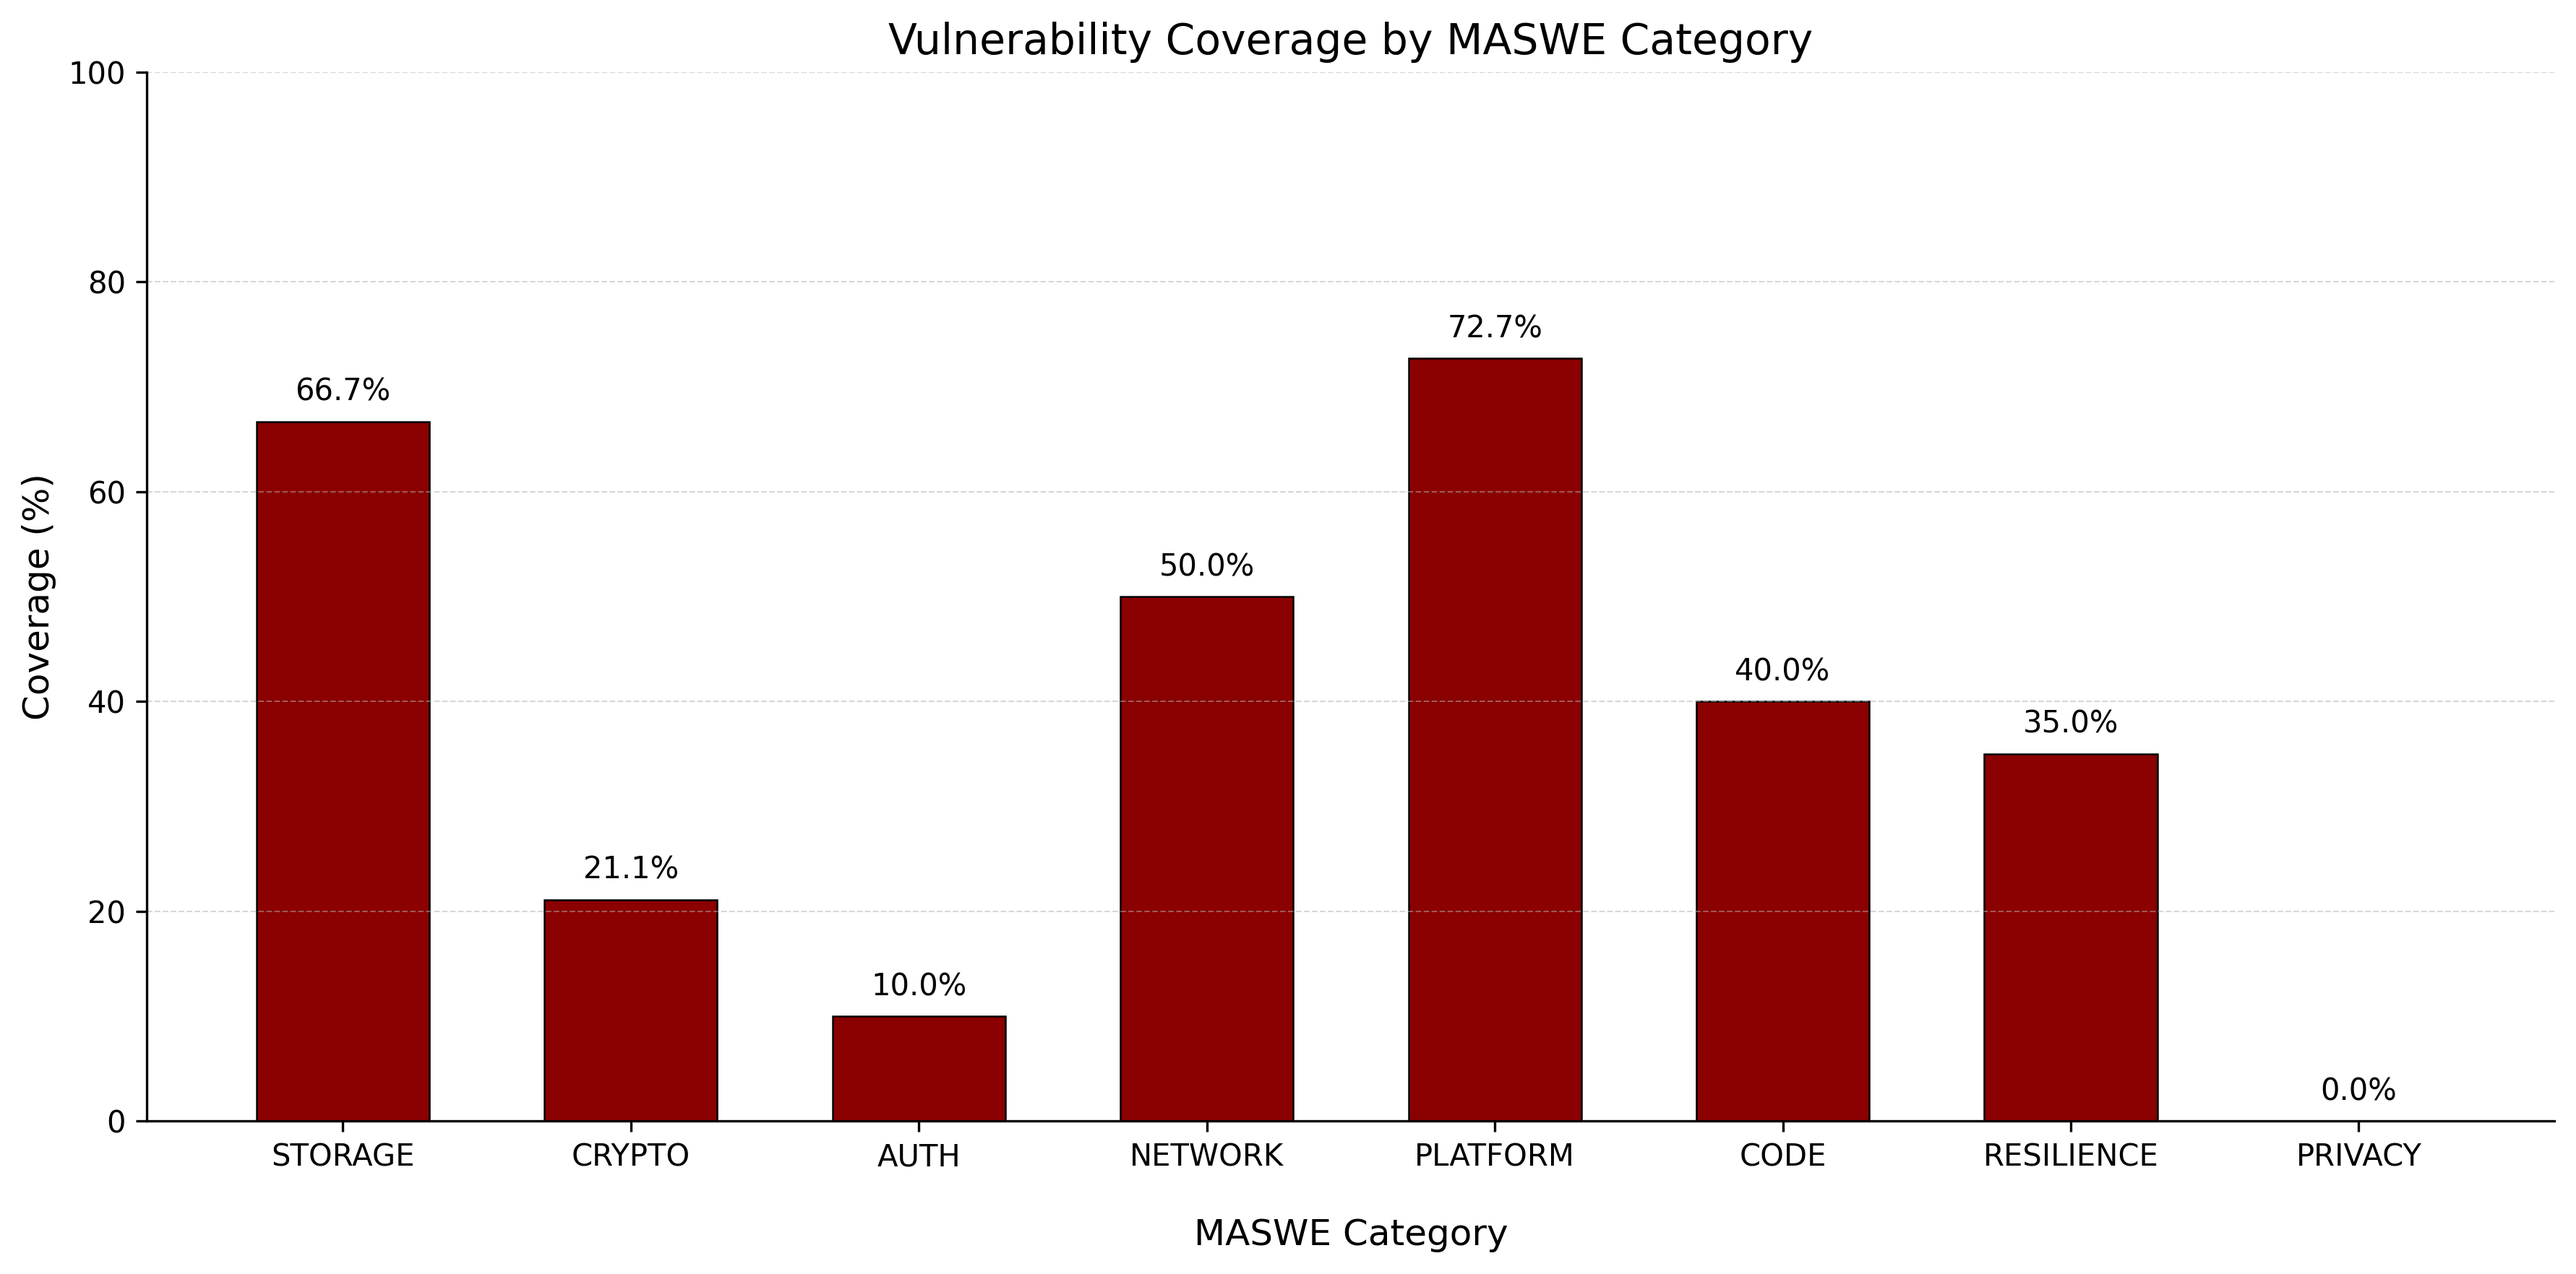
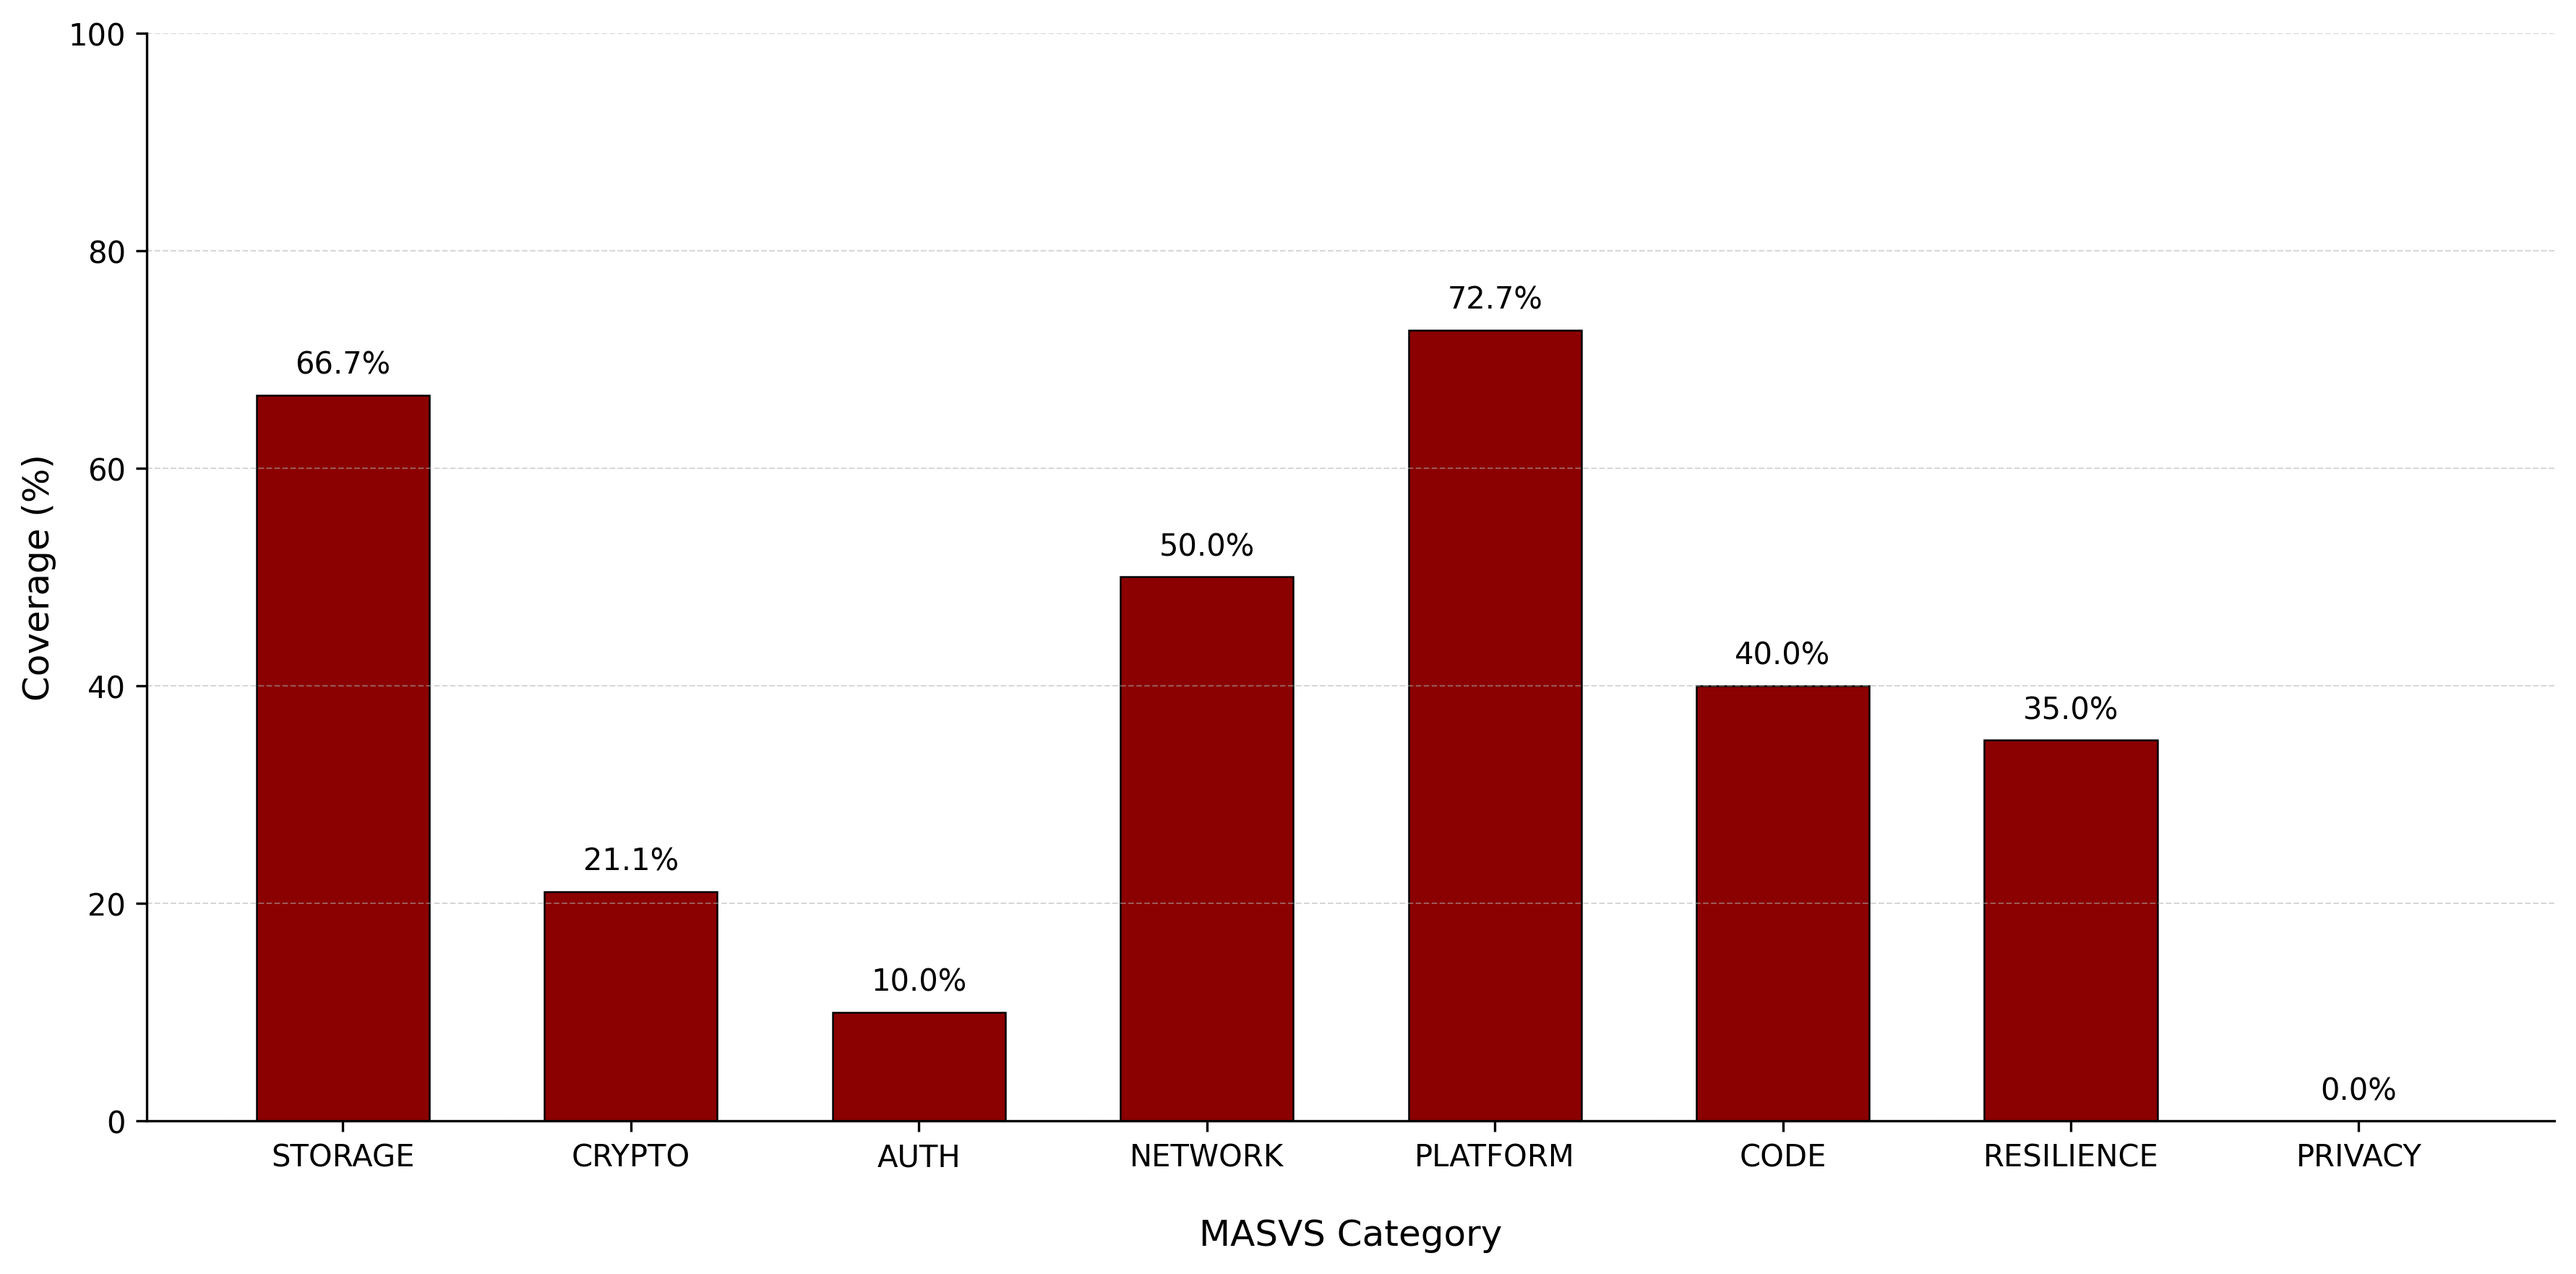
"Added the latest versions of the plots, the ones without a title, to the BA thesis document"

diff --git a/dev_documents/BA_Thesis_Kronig/content/06_results.tex b/dev_documents/BA_Thesis_Kronig/content/06_results.tex
@@ -61,7 +61,6 @@ This furthermore means that our own apps improve the total coverage of OWASP MAS
 
 If we add our own apps to the previous graph, as done in \ref{fig:maswe_vulnerabilities_covered_per_app_with_own_apps}, the difference in magnitude when it comes to MASWE-vulnerability-to-implemented-vulnerability ratios becomes more clear. The graph seen in \ref{fig:maswe_vulnerabilities_to_implemented_vulnerabilities_ratio} better illustrates this ratio by adding the total amount of implemented vulnerabilities to each app.
 
-\todo{Replace with new graph from py}
 \begin{figure}[htbp]
   \centering
   \includegraphics[width=1.0\textwidth]{dev_documents/BA_Thesis_Kronig/figures/results/unique_with_own_app.png}
@@ -69,7 +68,6 @@ If we add our own apps to the previous graph, as done in \ref{fig:maswe_vulnerab
   \label{fig:maswe_vulnerabilities_covered_per_app_with_own_apps}
 \end{figure}
 
-\todo{Replace with new graph from py}
 \begin{figure}[htbp]
   \centering
   \includegraphics[width=1.0\textwidth]{dev_documents/BA_Thesis_Kronig/figures/results/total_vs_unique_with_own_app.png}
